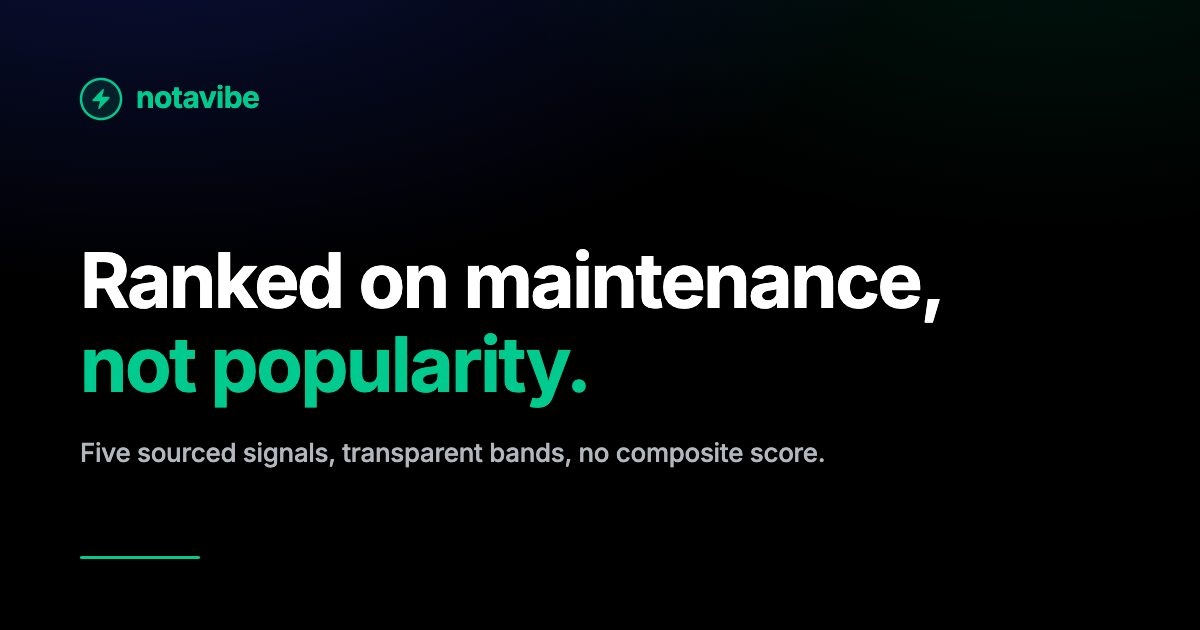
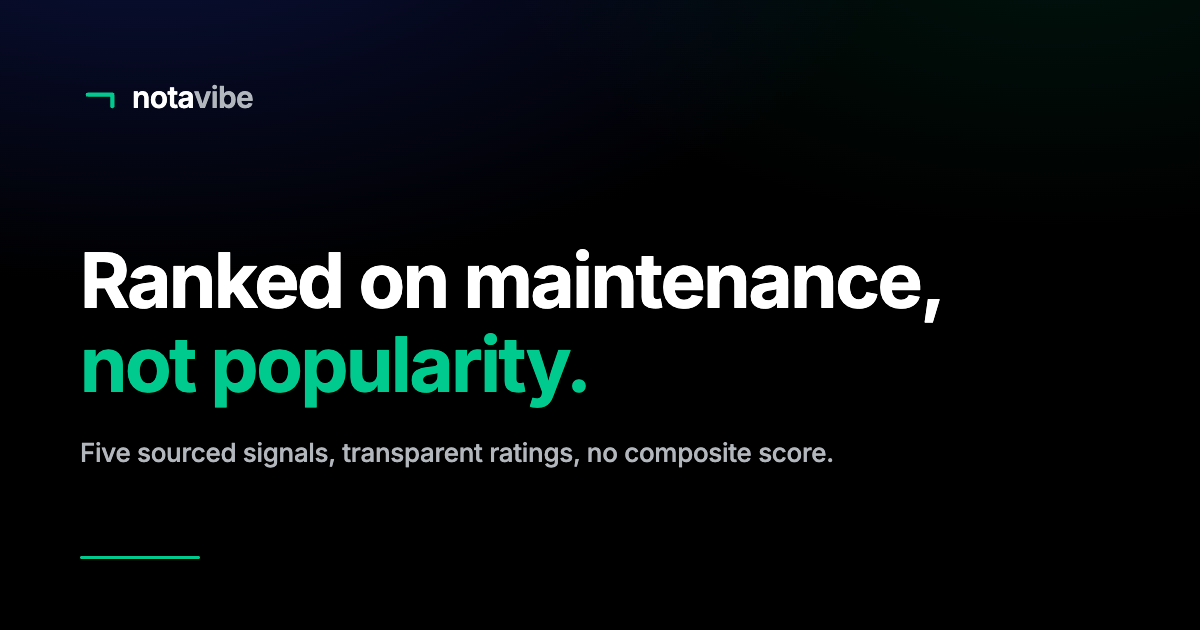
Adopt the ¬ mark across the public site (#55)
feat(brand): adopt the ¬ mark across the public site

The mark is now a logical NOT — "not a vibe", said in one glyph — replacing the
bolt-in-a-ring the site had been carrying. Source files came from
~/Documents/work/notavibe/logo; they are untouched, and everything here is a
copy adapted to the site.

One deliberate departure from those sources: the mark is drawn in the site's own
--volt-emerald (#00ca8e), not the brand file's #31E29B. They are not close — rgb
(0,202,142) against (49,226,155), relative luminance 0.442 against 0.574 — and
a logo in one green sitting directly above a CTA in the other reads as two
greens rather than one brand. The brief was to keep the site's colours and bring
the logo to them, so the accent is untouched and the mark matches it.

The wordmark is now two-tone: "nota" in ink, "vibe" muted. That contrast is what
makes the negation read as a sentence instead of decoration. It is set in Inter,
already loaded, rather than the Geist the source lockup specifies — the two were
compared side by side at hero, header and nav sizes in both themes, and Geist did
not earn a third font family on every page load for one word. Both tones are
CSS variables, so the lockup follows the light/dark toggle rather than needing a
second hand-maintained variant.

The favicon gains a dark tile and a full size set: favicon.svg as the source,
plus .ico (16/32/48/64), 16 and 32 PNGs, and a 180px apple-touch-icon, all
[…]

Changed region(s): [[0.4008, 0.6937, 0.7092, 0.754], [0.0617, 0.1206, 0.2158, 0.2111]]

diff --git a/frontend/index.html b/frontend/index.html
@@ -9,6 +9,9 @@
 <meta name="theme-color" content="#000000">
 <link rel="canonical" href="https://notavibe.dev/">
 <link rel="icon" href="favicon.svg" type="image/svg+xml">
+<link rel="icon" href="favicon-32.png" sizes="32x32" type="image/png">
+<link rel="icon" href="favicon-16.png" sizes="16x16" type="image/png">
+<link rel="apple-touch-icon" href="apple-touch-icon.png">
 
 <!-- Share card. og.png is the raster that ships (most scrapers won't render SVG);
      og.svg beside it is the source it was rendered from. -->
@@ -122,18 +125,22 @@ a:hover { color: var(--volt-emerald); }
 
 /* ── Logo lockup ─────────────────────────────────────────────────────────── */
 .logo {
-  display: inline-flex; align-items: center; gap: 10px;
+  display: inline-flex; align-items: center; gap: 11px;
 }
-.logo-ring {
-  width: 34px; height: 34px; border-radius: 9999px;
-  border: 2px solid var(--volt-emerald); background: rgba(0,202,142,0.12);
-  display: inline-flex; align-items: center; justify-content: center; flex-shrink: 0;
-}
-.logo-ring svg { width: 19px; height: 19px; display: block; }
-.logo-word {
-  font-size: 22px; font-weight: 700; letter-spacing: -0.02em;
+/* The mark is a logical NOT (¬) — "not a vibe" in one glyph. currentColor so the
+   single path serves both themes; the emerald is the site's, not the source
+   file's lighter green, so it matches the CTA it sits above. */
+.logo-mark {
+  width: 30px; height: 30px; flex-shrink: 0; display: block;
   color: var(--volt-emerald);
 }
+/* Two-tone wordmark: "nota" in ink, "vibe" muted. The contrast is the point —
+   it makes the mark's negation read as a sentence rather than decoration. */
+.logo-word {
+  font-size: 22px; font-weight: 600; letter-spacing: -0.02em;
+}
+.logo-word .a { color: var(--volt-white); }
+.logo-word .b { color: var(--volt-text-500); }
 
 /* ── Buttons ─────────────────────────────────────────────────────────────── */
 .btn {
@@ -364,12 +371,11 @@ a:hover { color: var(--volt-emerald); }
   <canvas class="hero-dots" id="hero-dots" aria-hidden="true"></canvas>
   <div class="hero-content">
     <span class="logo fade-up fade-up-1">
-      <span class="logo-ring">
-        <svg viewBox="0 0 24 24" aria-hidden="true">
-          <path fill="var(--volt-emerald)" d="M14.615 1.595a.75.75 0 0 1 .359.852L12.982 9.75h7.268a.75.75 0 0 1 .548 1.262l-10.5 11.25a.75.75 0 0 1-1.272-.71l1.992-7.302H3.75a.75.75 0 0 1-.548-1.262l10.5-11.25a.75.75 0 0 1 .913-.143Z"/>
-        </svg>
-      </span>
-      <span class="logo-word">notavibe</span>
+      <svg class="logo-mark" viewBox="0 0 24 24" fill="none" aria-hidden="true">
+        <path d="M4.5 9.5 H 18.5 V 16" stroke="currentColor" stroke-width="2.5"
+              stroke-linecap="round" stroke-linejoin="round"/>
+      </svg>
+      <span class="logo-word"><span class="a">nota</span><span class="b">vibe</span></span>
     </span>
 
     <h1 class="fade-up fade-up-2">Your dependencies look fine.<br><span class="accent">Are they?</span></h1>

diff --git a/frontend/privacy/index.html b/frontend/privacy/index.html
@@ -10,6 +10,9 @@
 <link rel="canonical" href="https://notavibe.dev/privacy/">
 <meta name="robots" content="index, follow">
 <link rel="icon" href="/favicon.svg" type="image/svg+xml">
+<link rel="icon" href="/favicon-32.png" sizes="32x32" type="image/png">
+<link rel="icon" href="/favicon-16.png" sizes="16x16" type="image/png">
+<link rel="apple-touch-icon" href="/apple-touch-icon.png">
 <!--
   Standalone, PUBLIC privacy policy. Deliberately loads no runtime and no app
   scripts, so the private-preview password gate (which lives in prototype.html)
@@ -94,16 +97,11 @@ code {
   display: flex; align-items: center; justify-content: space-between; gap: 16px;
 }
 .logo { display: inline-flex; align-items: center; gap: 9px; text-decoration: none; }
-.logo-ring {
-  width: 28px; height: 28px; border-radius: 9999px;
-  border: 2px solid var(--volt-emerald); background: rgba(0,202,142,0.12);
-  display: inline-flex; align-items: center; justify-content: center; flex-shrink: 0;
-}
-.logo-ring svg { width: 16px; height: 16px; display: block; }
-.logo-word {
-  font-size: 18px; font-weight: 700; letter-spacing: -0.02em;
-  color: var(--volt-emerald);
-}
+/* Same mark and two-tone wordmark as the front page, at bar scale. */
+.logo-mark { width: 24px; height: 24px; flex-shrink: 0; display: block; color: var(--volt-emerald); }
+.logo-word { font-size: 18px; font-weight: 600; letter-spacing: -0.02em; }
+.logo-word .a { color: var(--volt-white); }
+.logo-word .b { color: var(--volt-text-500); }
 .bar-right { display: flex; align-items: center; gap: 8px; }
 .bar-link {
   font-size: 14px; font-weight: 500; color: var(--volt-text-500);
@@ -273,12 +271,11 @@ tbody td:first-child {
 <header class="bar">
   <div class="bar-inner">
     <a class="logo" href="/" aria-label="notavibe home">
-      <span class="logo-ring">
-        <svg viewBox="0 0 24 24" aria-hidden="true">
-          <path fill="var(--volt-emerald)" d="M14.615 1.595a.75.75 0 0 1 .359.852L12.982 9.75h7.268a.75.75 0 0 1 .548 1.262l-10.5 11.25a.75.75 0 0 1-1.272-.71l1.992-7.302H3.75a.75.75 0 0 1-.548-1.262l10.5-11.25a.75.75 0 0 1 .913-.143Z"/>
-        </svg>
-      </span>
-      <span class="logo-word">notavibe</span>
+      <svg class="logo-mark" viewBox="0 0 24 24" fill="none" aria-hidden="true">
+        <path d="M4.5 9.5 H 18.5 V 16" stroke="currentColor" stroke-width="2.5"
+              stroke-linecap="round" stroke-linejoin="round"/>
+      </svg>
+      <span class="logo-word"><span class="a">nota</span><span class="b">vibe</span></span>
     </a>
     <div class="bar-right">
       <a class="bar-link" href="/">Back to notavibe</a>

diff --git a/README.md b/README.md
@@ -45,12 +45,15 @@ frontend/
 ├─ styles/hashicorp-tokens.css   # loaded last; wins the dark base
 ├─ design-system/voltagent/   # VoltAgent design-system bundle (components + tokens)
 ├─ design-notes/              # hashicorp.DESIGN.md — design intent, in prose
-├─ favicon.svg · og.svg · og.png · robots.txt · CNAME
-└─ thumbnail.webp             # preview tile from the VoltAgent kit import
+└─ favicon.svg · favicon.ico · favicon-16/32.png · apple-touch-icon.png
+   og.svg · og.png · robots.txt · CNAME
 ```
 
-`og.png` is the share card that ships (most social scrapers won't render an SVG);
-`og.svg` beside it is the source. Re-render after editing it — headless Chrome at
+The icons and the share card are all the same mark — a logical NOT (¬), drawn in
+the site's own `--volt-emerald` rather than the brand file's lighter green, so the
+logo matches the buttons beside it. `favicon.svg` is the source the raster sizes
+were rendered from; `og.png` is the share card that ships (most social scrapers
+won't render an SVG) and `og.svg` beside it is its source. Re-render after editing it — headless Chrome at
 1200×630, since Inter is not a system font and ImageMagick alone sets the type wrong.
 
 ## Design systems
